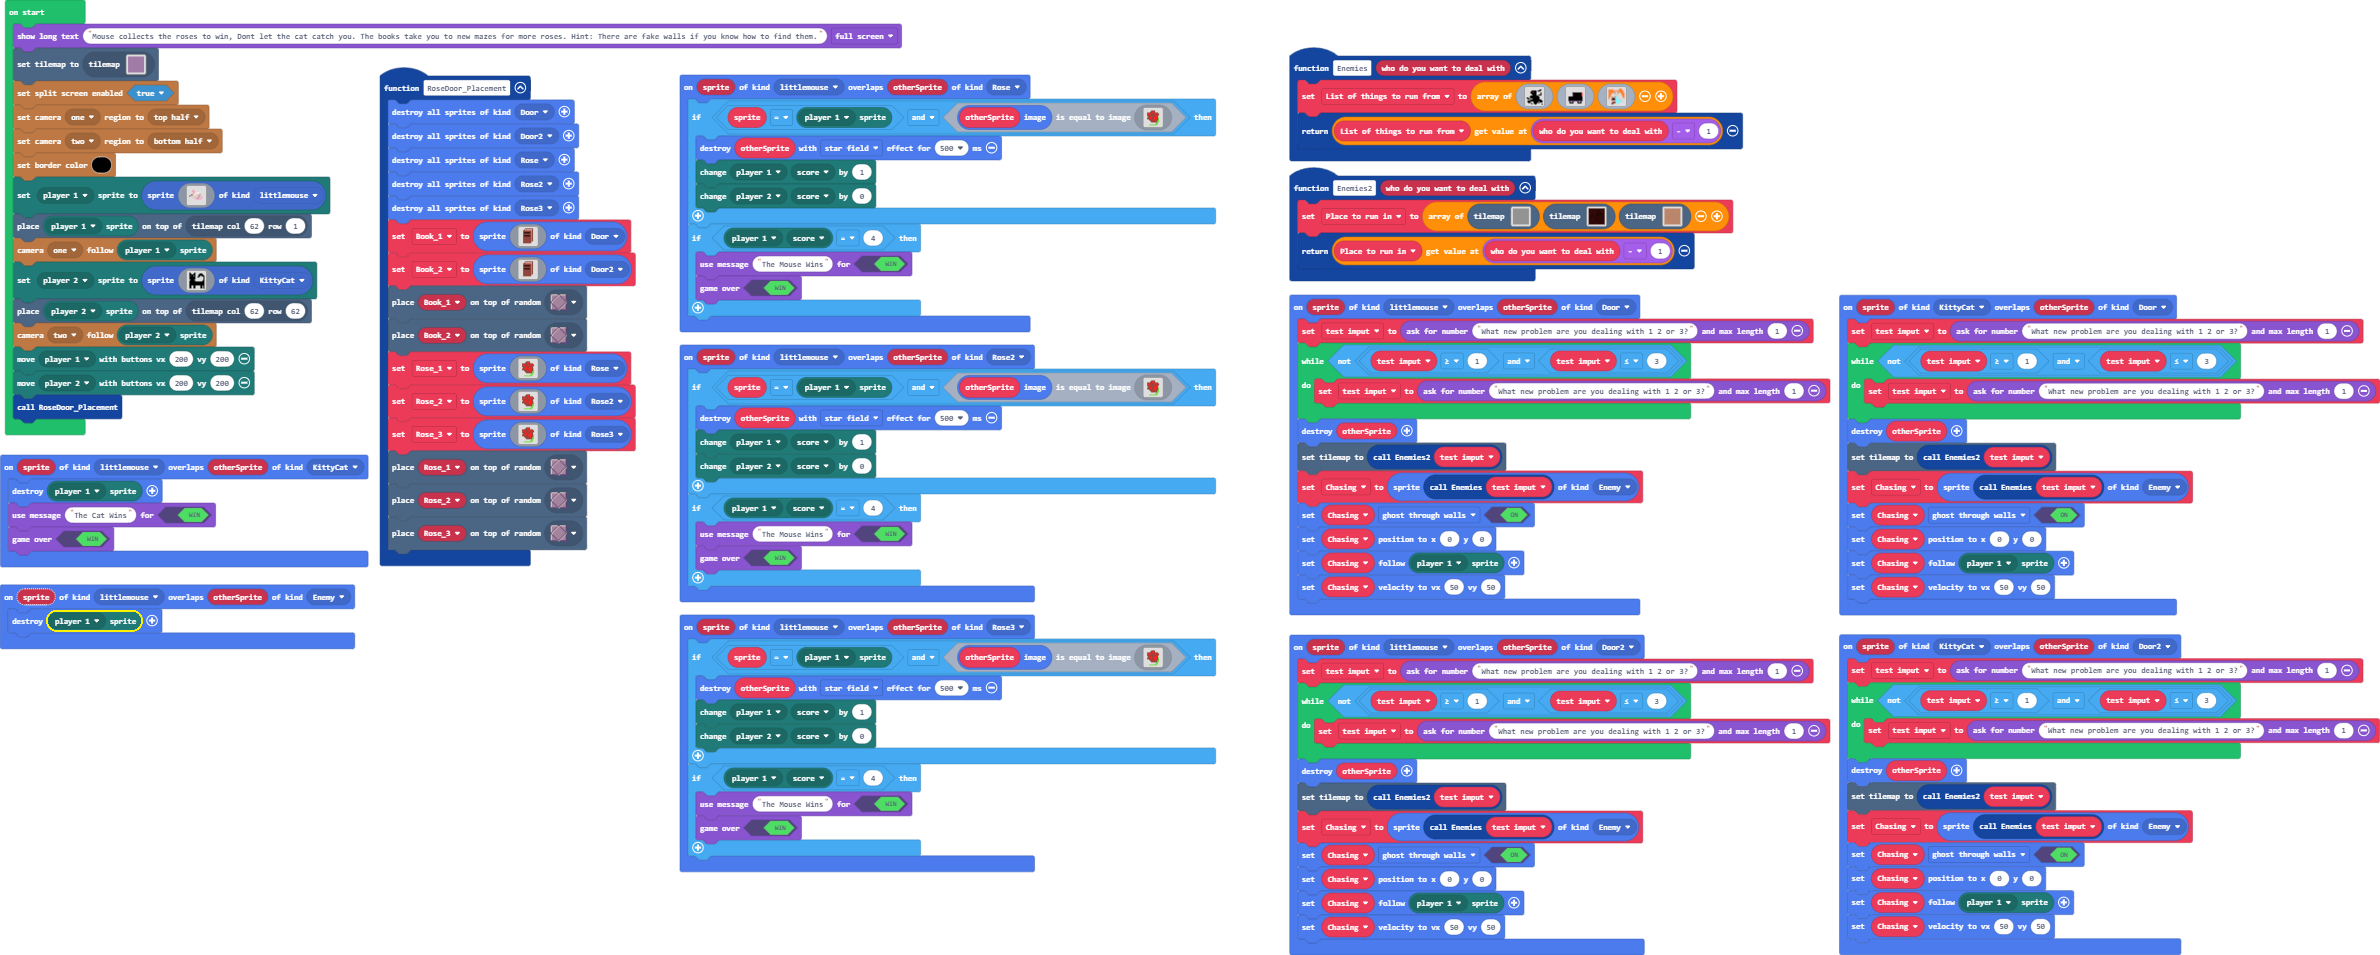
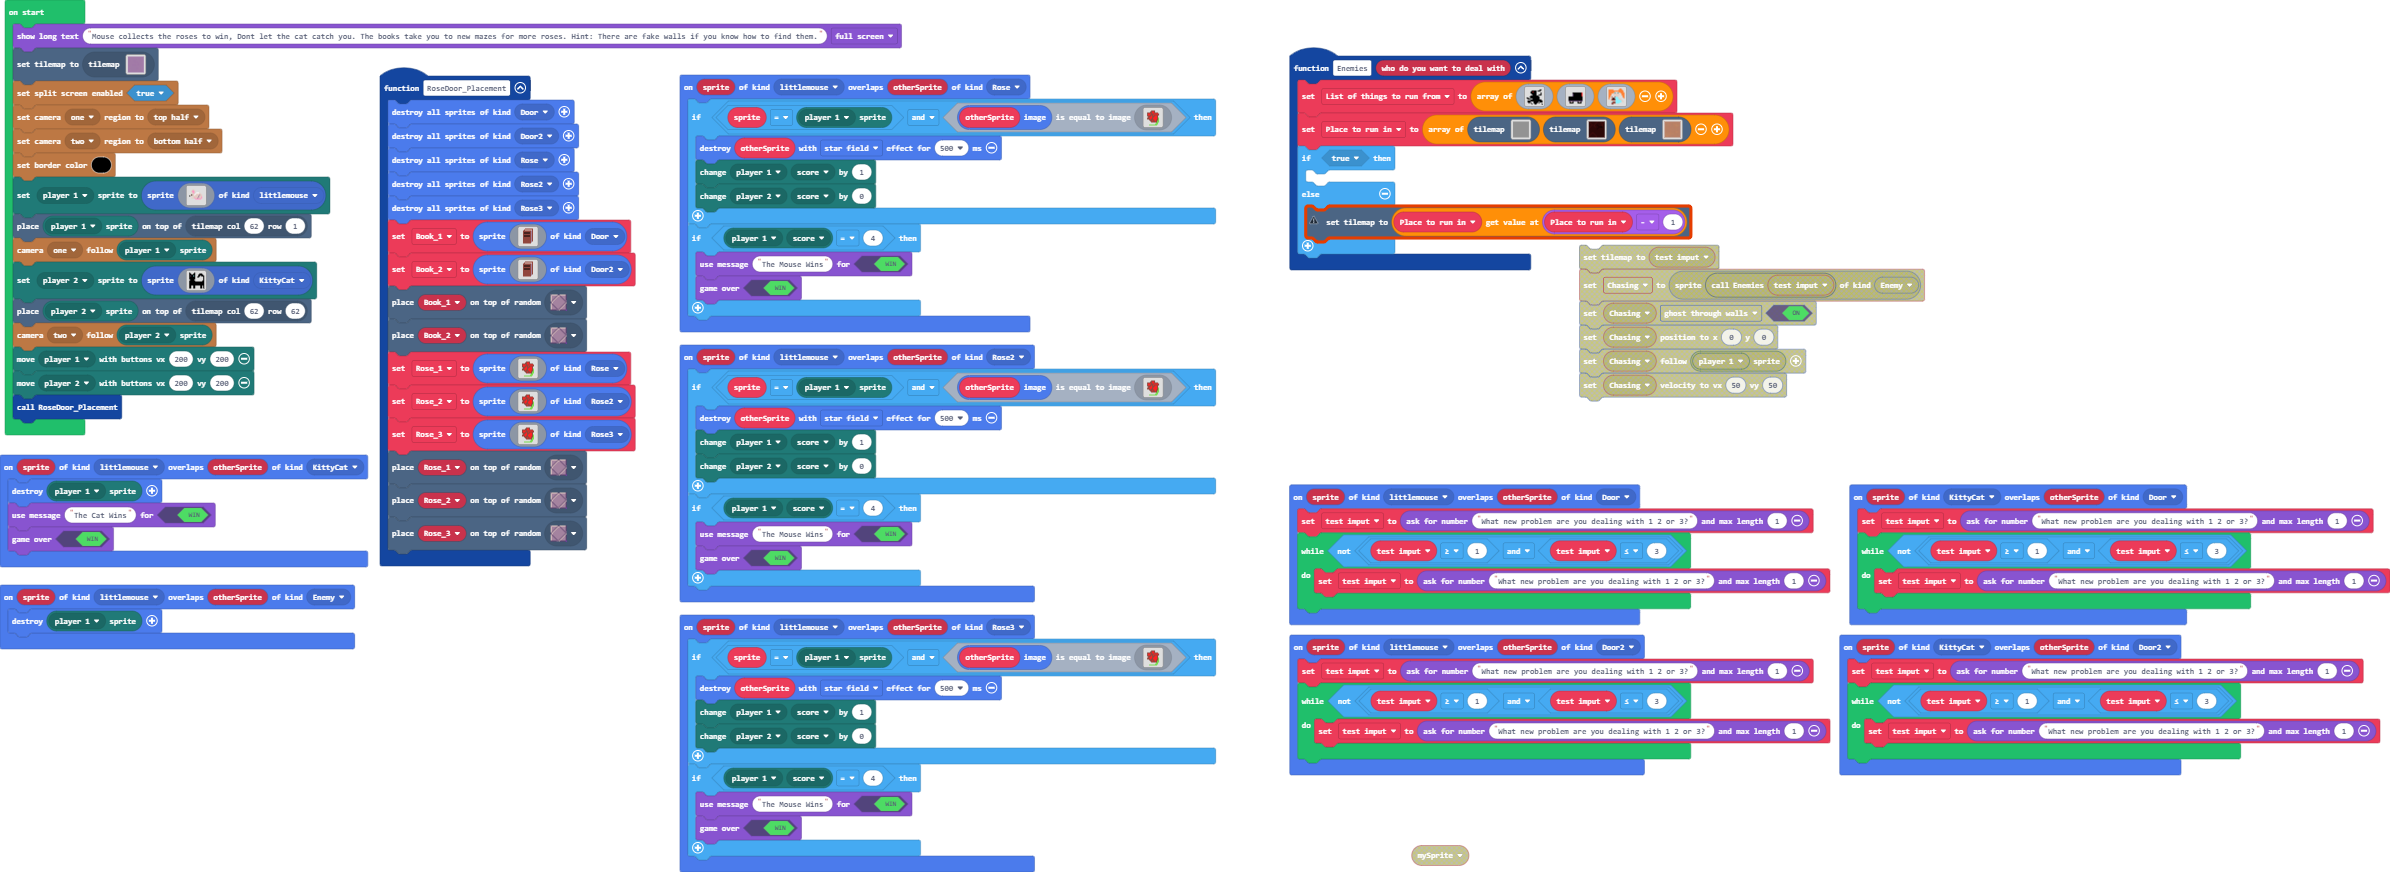
this sucks

diff --git a/tilemap.g.ts b/tilemap.g.ts
@@ -561,6 +561,101 @@ namespace myTiles {
 . . . . . . . . . . . . . . . . 
 . . . . . . . . . . . . . . . . 
 `, [myTiles.transparency16], TileScale.Sixteen);
+            case "level18":
+            case "level18":return tiles.createTilemap(hex`1000100000000000000000000000000000000000000000000000000000000000000000000000000000000000000000000000000000000000000000000000000000000000000000000000000000000000000000000000000000000000000000000000000000000000000000000000000000000000000000000000000000000000000000000000000000000000000000000000000000000000000000000000000000000000000000000000000000000000000000000000000000000000000000000000000000000000000000000000000000000000000000000000000000000000000000000000000000000000000000000000000000000000000000000000000000000000`, img`
+. . . . . . . . . . . . . . . . 
+. . . . . . . . . . . . . . . . 
+. . . . . . . . . . . . . . . . 
+. . . . . . . . . . . . . . . . 
+. . . . . . . . . . . . . . . . 
+. . . . . . . . . . . . . . . . 
+. . . . . . . . . . . . . . . . 
+. . . . . . . . . . . . . . . . 
+. . . . . . . . . . . . . . . . 
+. . . . . . . . . . . . . . . . 
+. . . . . . . . . . . . . . . . 
+. . . . . . . . . . . . . . . . 
+. . . . . . . . . . . . . . . . 
+. . . . . . . . . . . . . . . . 
+. . . . . . . . . . . . . . . . 
+. . . . . . . . . . . . . . . . 
+`, [myTiles.transparency16], TileScale.Sixteen);
+            case "level19":
+            case "level19":return tiles.createTilemap(hex`1000100000000000000000000000000000000000000000000000000000000000000000000000000000000000000000000000000000000000000000000000000000000000000000000000000000000000000000000000000000000000000000000000000000000000000000000000000000000000000000000000000000000000000000000000000000000000000000000000000000000000000000000000000000000000000000000000000000000000000000000000000000000000000000000000000000000000000000000000000000000000000000000000000000000000000000000000000000000000000000000000000000000000000000000000000000000000`, img`
+. . . . . . . . . . . . . . . . 
+. . . . . . . . . . . . . . . . 
+. . . . . . . . . . . . . . . . 
+. . . . . . . . . . . . . . . . 
+. . . . . . . . . . . . . . . . 
+. . . . . . . . . . . . . . . . 
+. . . . . . . . . . . . . . . . 
+. . . . . . . . . . . . . . . . 
+. . . . . . . . . . . . . . . . 
+. . . . . . . . . . . . . . . . 
+. . . . . . . . . . . . . . . . 
+. . . . . . . . . . . . . . . . 
+. . . . . . . . . . . . . . . . 
+. . . . . . . . . . . . . . . . 
+. . . . . . . . . . . . . . . . 
+. . . . . . . . . . . . . . . . 
+`, [myTiles.transparency16], TileScale.Sixteen);
+            case "level20":
+            case "level20":return tiles.createTilemap(hex`1000100000000000000000000000000000000000000000000000000000000000000000000000000000000000000000000000000000000000000000000000000000000000000000000000000000000000000000000000000000000000000000000000000000000000000000000000000000000000000000000000000000000000000000000000000000000000000000000000000000000000000000000000000000000000000000000000000000000000000000000000000000000000000000000000000000000000000000000000000000000000000000000000000000000000000000000000000000000000000000000000000000000000000000000000000000000000`, img`
+. . . . . . . . . . . . . . . . 
+. . . . . . . . . . . . . . . . 
+. . . . . . . . . . . . . . . . 
+. . . . . . . . . . . . . . . . 
+. . . . . . . . . . . . . . . . 
+. . . . . . . . . . . . . . . . 
+. . . . . . . . . . . . . . . . 
+. . . . . . . . . . . . . . . . 
+. . . . . . . . . . . . . . . . 
+. . . . . . . . . . . . . . . . 
+. . . . . . . . . . . . . . . . 
+. . . . . . . . . . . . . . . . 
+. . . . . . . . . . . . . . . . 
+. . . . . . . . . . . . . . . . 
+. . . . . . . . . . . . . . . . 
+. . . . . . . . . . . . . . . . 
+`, [myTiles.transparency16], TileScale.Sixteen);
+            case "level21":
+            case "level21":return tiles.createTilemap(hex`1000100000000000000000000000000000000000000000000000000000000000000000000000000000000000000000000000000000000000000000000000000000000000000000000000000000000000000000000000000000000000000000000000000000000000000000000000000000000000000000000000000000000000000000000000000000000000000000000000000000000000000000000000000000000000000000000000000000000000000000000000000000000000000000000000000000000000000000000000000000000000000000000000000000000000000000000000000000000000000000000000000000000000000000000000000000000000`, img`
+. . . . . . . . . . . . . . . . 
+. . . . . . . . . . . . . . . . 
+. . . . . . . . . . . . . . . . 
+. . . . . . . . . . . . . . . . 
+. . . . . . . . . . . . . . . . 
+. . . . . . . . . . . . . . . . 
+. . . . . . . . . . . . . . . . 
+. . . . . . . . . . . . . . . . 
+. . . . . . . . . . . . . . . . 
+. . . . . . . . . . . . . . . . 
+. . . . . . . . . . . . . . . . 
+. . . . . . . . . . . . . . . . 
+. . . . . . . . . . . . . . . . 
+. . . . . . . . . . . . . . . . 
+. . . . . . . . . . . . . . . . 
+. . . . . . . . . . . . . . . . 
+`, [myTiles.transparency16], TileScale.Sixteen);
+            case "level22":
+            case "level22":return tiles.createTilemap(hex`1000100000000000000000000000000000000000000000000000000000000000000000000000000000000000000000000000000000000000000000000000000000000000000000000000000000000000000000000000000000000000000000000000000000000000000000000000000000000000000000000000000000000000000000000000000000000000000000000000000000000000000000000000000000000000000000000000000000000000000000000000000000000000000000000000000000000000000000000000000000000000000000000000000000000000000000000000000000000000000000000000000000000000000000000000000000000000`, img`
+. . . . . . . . . . . . . . . . 
+. . . . . . . . . . . . . . . . 
+. . . . . . . . . . . . . . . . 
+. . . . . . . . . . . . . . . . 
+. . . . . . . . . . . . . . . . 
+. . . . . . . . . . . . . . . . 
+. . . . . . . . . . . . . . . . 
+. . . . . . . . . . . . . . . . 
+. . . . . . . . . . . . . . . . 
+. . . . . . . . . . . . . . . . 
+. . . . . . . . . . . . . . . . 
+. . . . . . . . . . . . . . . . 
+. . . . . . . . . . . . . . . . 
+. . . . . . . . . . . . . . . . 
+. . . . . . . . . . . . . . . . 
+. . . . . . . . . . . . . . . . 
+`, [myTiles.transparency16], TileScale.Sixteen);
         }
         return null;
     })

diff --git a/main.ts b/main.ts
@@ -61,20 +61,18 @@ function Enemies (who_do_you_want_to_deal_with: number) {
         . . . e e e e 9 9 9 9 . . . . . 
         . . . e e . d . . d . . . . . . 
         `]
-    return List_of_things_to_run_from[who_do_you_want_to_deal_with - 1]
+    Place_to_run_in = [tilemap`level13`, tilemap`level15`, tilemap`level16`]
+    if (true) {
+    	
+    } else {
+        tiles.setCurrentTilemap(Place_to_run_in[Place_to_run_in - 1])
+    }
 }
 sprites.onOverlap(SpriteKind.littlemouse, SpriteKind.Door, function (sprite, otherSprite) {
     test_imput = game.askForNumber("What new problem are you dealing with 1 2 or 3?", 1)
     while (!(test_imput >= 1 && test_imput <= 3)) {
         test_imput = game.askForNumber("What new problem are you dealing with 1 2 or 3?", 1)
     }
-    sprites.destroy(otherSprite)
-    tiles.setCurrentTilemap(Enemies2(test_imput))
-    Chasing = sprites.create(Enemies(test_imput), SpriteKind.Enemy)
-    Chasing.setFlag(SpriteFlag.GhostThroughWalls, true)
-    Chasing.setPosition(0, 0)
-    Chasing.follow(mp.getPlayerSprite(mp.playerSelector(mp.PlayerNumber.One)))
-    Chasing.setVelocity(50, 50)
 })
 sprites.onOverlap(SpriteKind.littlemouse, SpriteKind.Rose2, function (sprite, otherSprite) {
     if (sprite == mp.getPlayerSprite(mp.playerSelector(mp.PlayerNumber.One)) && otherSprite.image.equals(img`
@@ -109,13 +107,6 @@ sprites.onOverlap(SpriteKind.littlemouse, SpriteKind.Door2, function (sprite, ot
     while (!(test_imput >= 1 && test_imput <= 3)) {
         test_imput = game.askForNumber("What new problem are you dealing with 1 2 or 3?", 1)
     }
-    sprites.destroy(otherSprite)
-    tiles.setCurrentTilemap(Enemies2(test_imput))
-    Chasing = sprites.create(Enemies(test_imput), SpriteKind.Enemy)
-    Chasing.setFlag(SpriteFlag.GhostThroughWalls, true)
-    Chasing.setPosition(0, 0)
-    Chasing.follow(mp.getPlayerSprite(mp.playerSelector(mp.PlayerNumber.One)))
-    Chasing.setVelocity(50, 50)
 })
 sprites.onOverlap(SpriteKind.littlemouse, SpriteKind.Enemy, function (sprite, otherSprite) {
     sprites.destroy(mp.getPlayerSprite(mp.playerSelector(mp.PlayerNumber.One)))
@@ -148,35 +139,17 @@ sprites.onOverlap(SpriteKind.littlemouse, SpriteKind.Rose, function (sprite, oth
         game.gameOver(true)
     }
 })
-function Enemies2 (who_do_you_want_to_deal_with: number) {
-    Place_to_run_in = [tilemap`level13`, tilemap`level15`, tilemap`level16`]
-    return Place_to_run_in[who_do_you_want_to_deal_with - 1]
-}
 sprites.onOverlap(SpriteKind.KittyCat, SpriteKind.Door, function (sprite, otherSprite) {
     test_imput = game.askForNumber("What new problem are you dealing with 1 2 or 3?", 1)
     while (!(test_imput >= 1 && test_imput <= 3)) {
         test_imput = game.askForNumber("What new problem are you dealing with 1 2 or 3?", 1)
     }
-    sprites.destroy(otherSprite)
-    tiles.setCurrentTilemap(Enemies2(test_imput))
-    Chasing = sprites.create(Enemies(test_imput), SpriteKind.Enemy)
-    Chasing.setFlag(SpriteFlag.GhostThroughWalls, true)
-    Chasing.setPosition(0, 0)
-    Chasing.follow(mp.getPlayerSprite(mp.playerSelector(mp.PlayerNumber.One)))
-    Chasing.setVelocity(50, 50)
 })
 sprites.onOverlap(SpriteKind.KittyCat, SpriteKind.Door2, function (sprite, otherSprite) {
     test_imput = game.askForNumber("What new problem are you dealing with 1 2 or 3?", 1)
     while (!(test_imput >= 1 && test_imput <= 3)) {
         test_imput = game.askForNumber("What new problem are you dealing with 1 2 or 3?", 1)
     }
-    sprites.destroy(otherSprite)
-    tiles.setCurrentTilemap(Enemies2(test_imput))
-    Chasing = sprites.create(Enemies(test_imput), SpriteKind.Enemy)
-    Chasing.setFlag(SpriteFlag.GhostThroughWalls, true)
-    Chasing.setPosition(0, 0)
-    Chasing.follow(mp.getPlayerSprite(mp.playerSelector(mp.PlayerNumber.One)))
-    Chasing.setVelocity(50, 50)
 })
 sprites.onOverlap(SpriteKind.littlemouse, SpriteKind.KittyCat, function (sprite, otherSprite) {
     sprites.destroy(mp.getPlayerSprite(mp.playerSelector(mp.PlayerNumber.One)))
@@ -318,9 +291,8 @@ let Rose_2: Sprite = null
 let Rose_1: Sprite = null
 let Book_2: Sprite = null
 let Book_1: Sprite = null
-let Place_to_run_in: tiles.TileMapData[] = []
-let Chasing: Sprite = null
 let test_imput = 0
+let Place_to_run_in: tiles.TileMapData[] = []
 let List_of_things_to_run_from: Image[] = []
 game.showLongText("Mouse collects the roses to win, Dont let the cat catch you. The books take you to new mazes for more roses. Hint: There are fake walls if you know how to find them.", DialogLayout.Full)
 tiles.setCurrentTilemap(tilemap`level1`)
